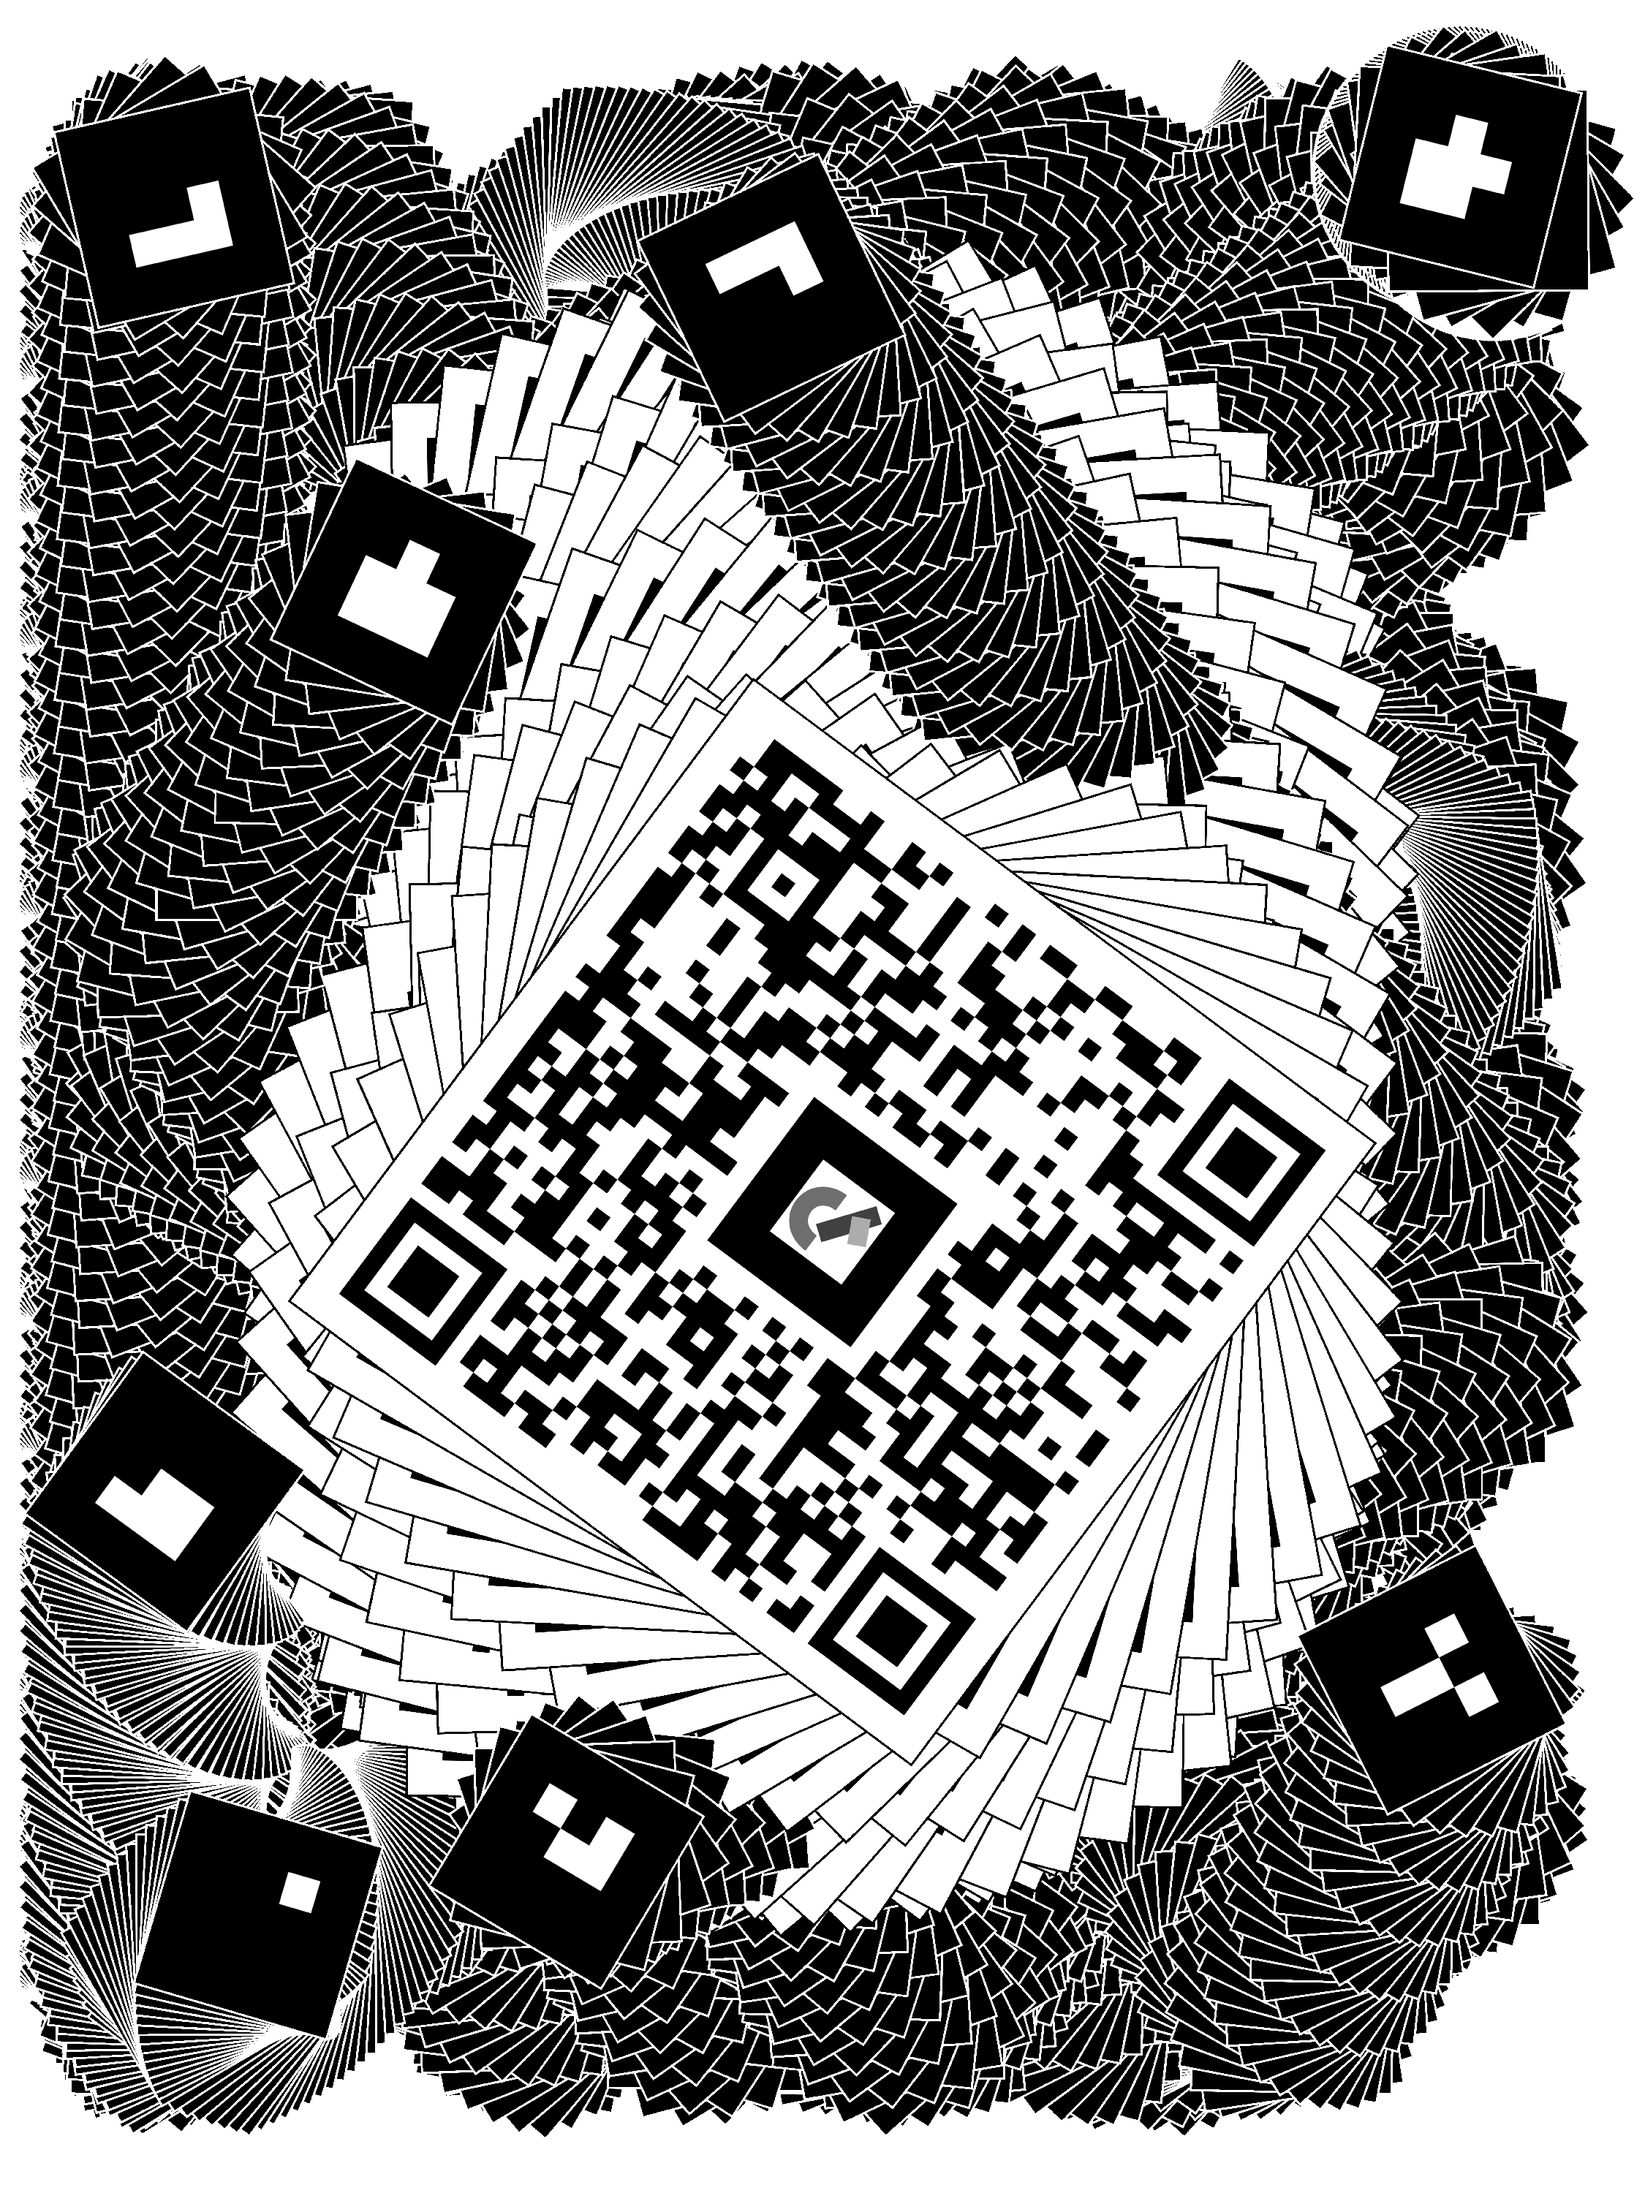
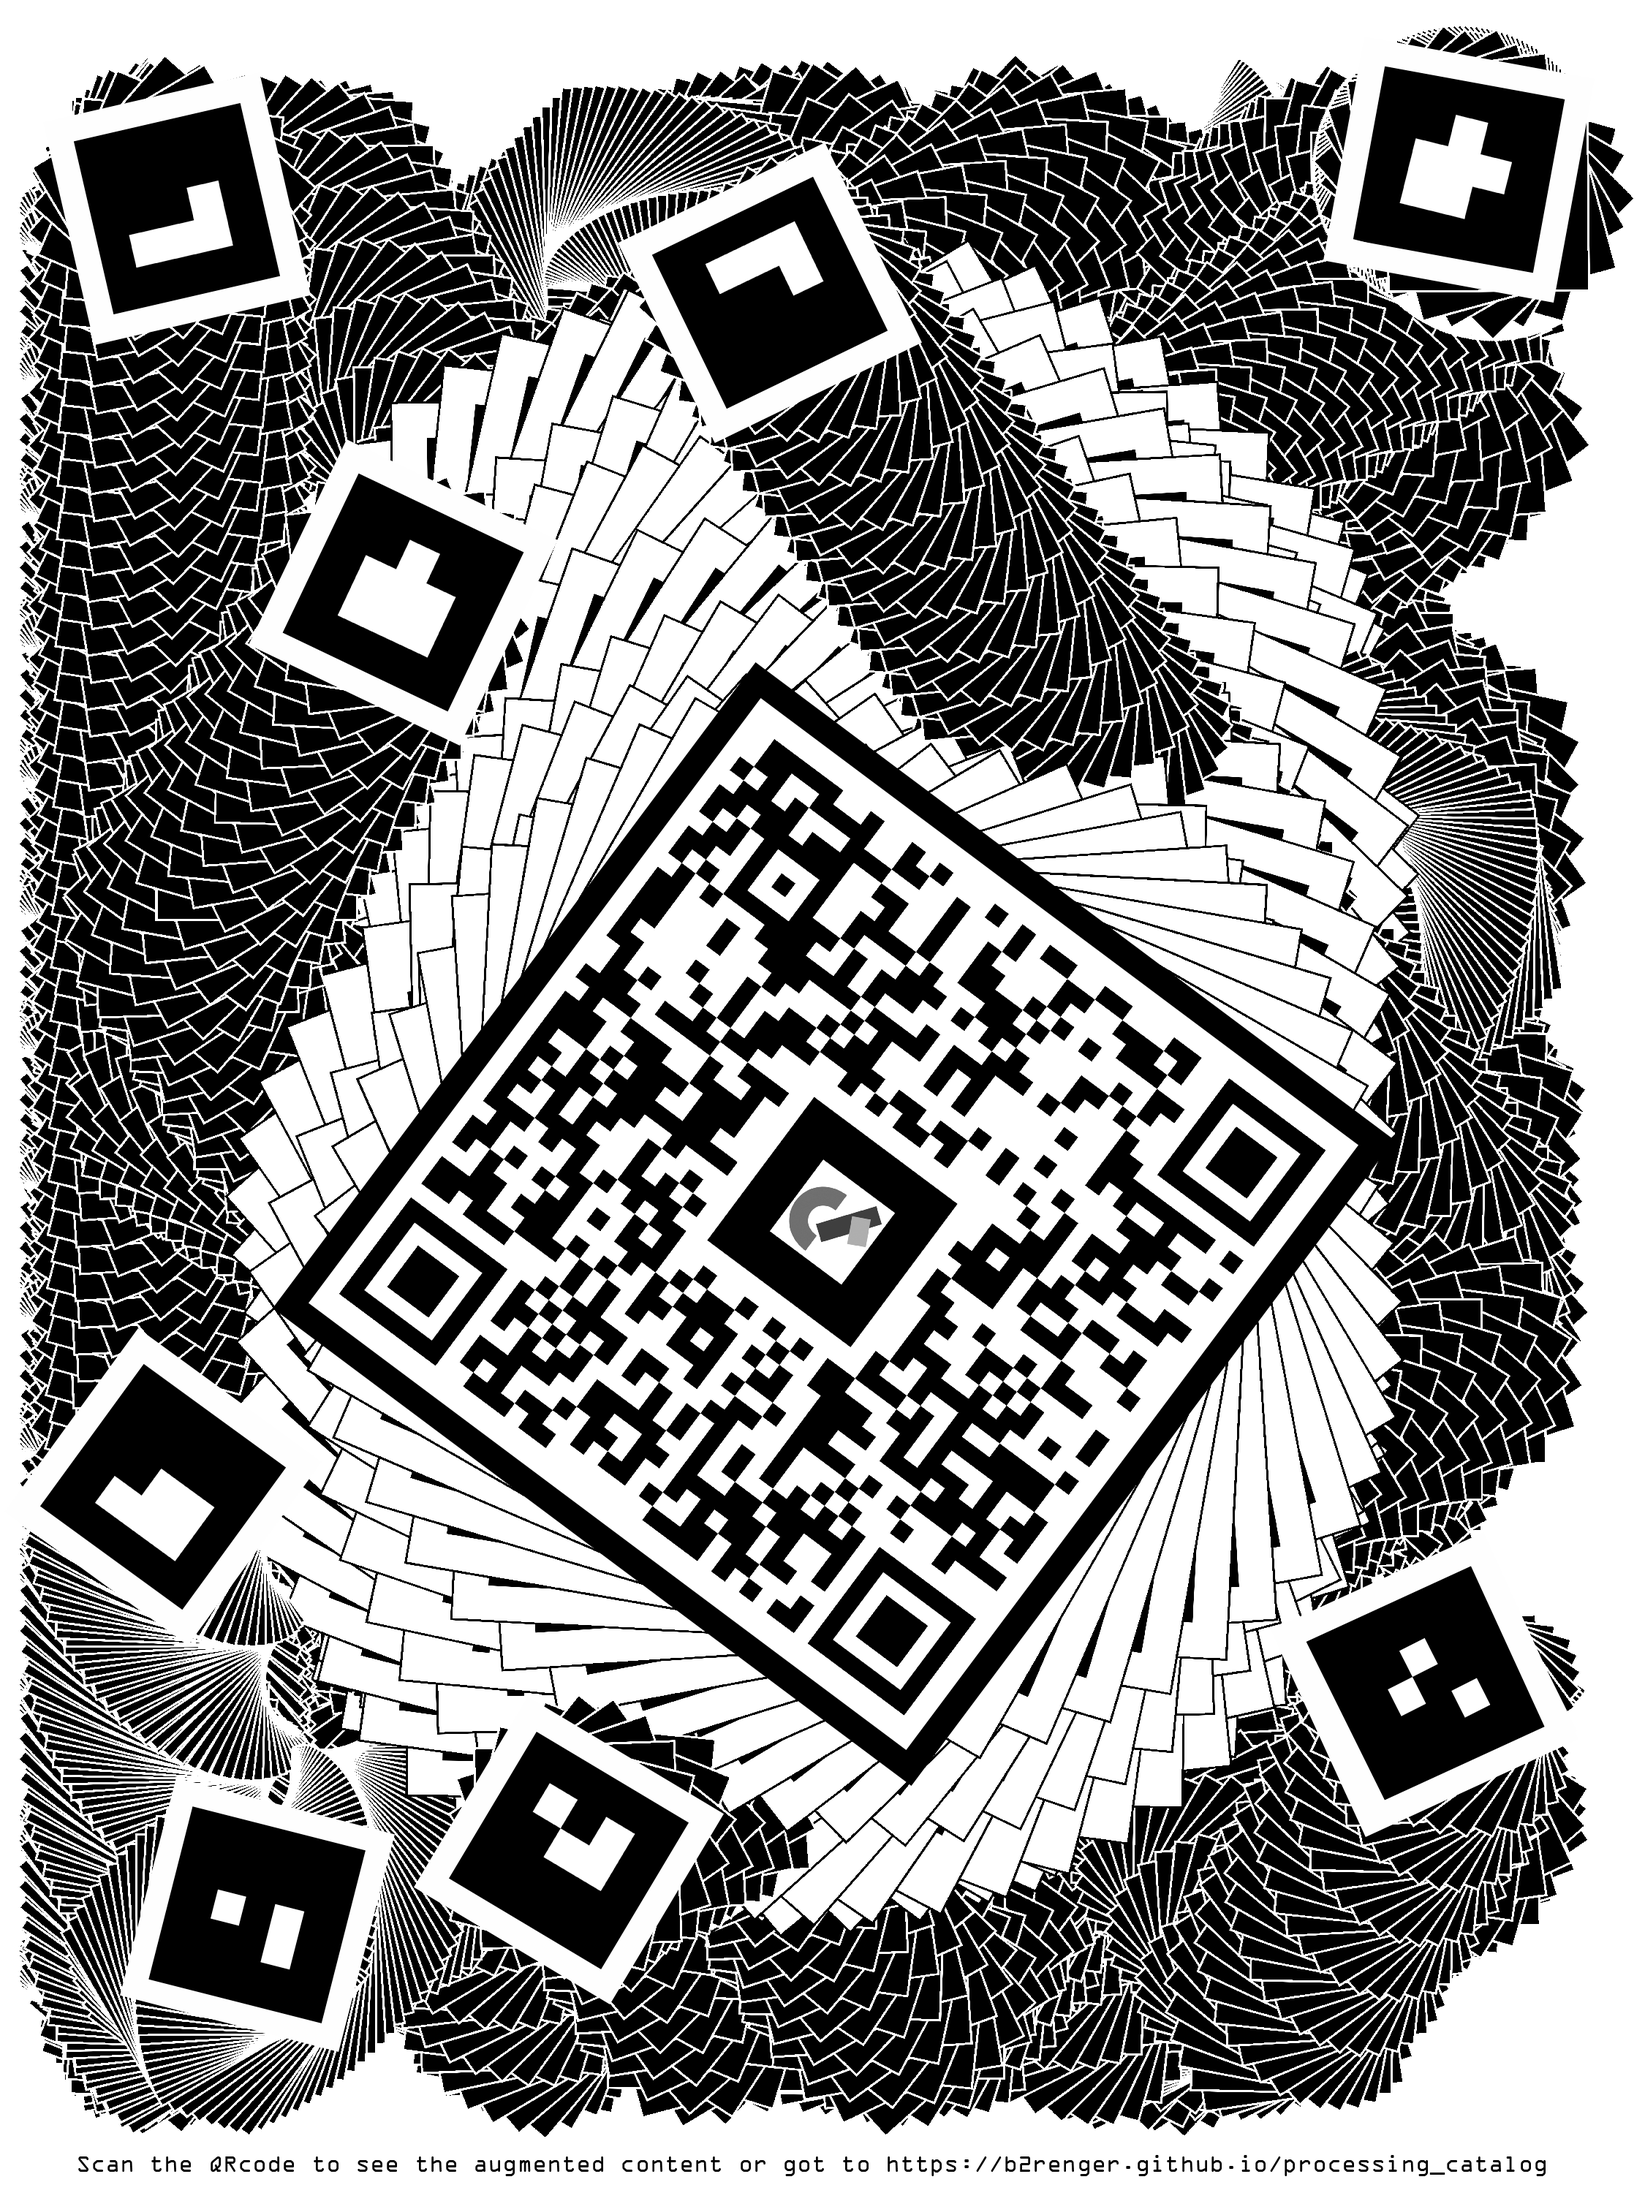
update readme

diff --git a/README.md b/README.md
@@ -1,4 +1,10 @@
 # processing_catalog
-Contribution to processing catalog
-
+Contribution to processing catalog :
 https://twitter.com/ProcessingOrg/status/1439283507679797160
+
+
+You can find the sketch made to create the image below. This image serves as a qr code and a series of markers to display content in AR using AFrame and Arjs. Content is created through p5js sketches which are then mapped as textures on 3D objects or planes.
+
+![image](./processing_catalog_b2renger_gray.png)
+
+So scan this image or go to ()[https://b2renger.github.io/processing_catalog]
